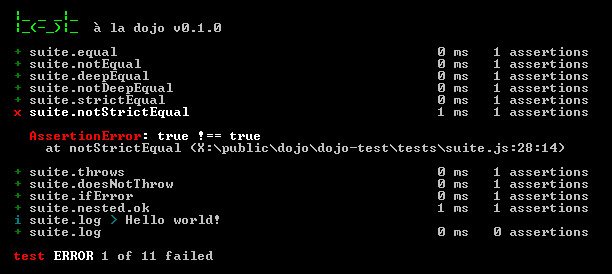
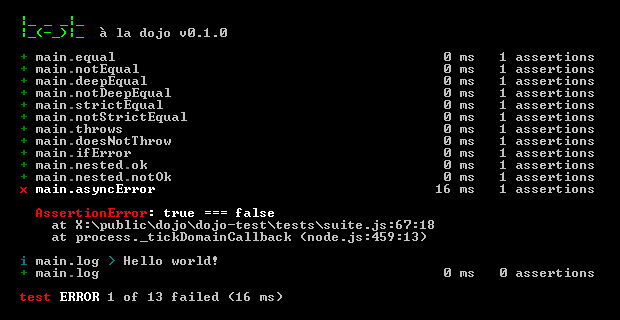
aladojo async domains

diff --git a/dojo-test/test.js b/dojo-test/test.js
@@ -26,6 +26,7 @@ module.exports = (function() {
     // core
     var path = require("path"),
         assert = require("assert"),
+        domain = require("domain"),
 
     // dojo
         pkg = require(path.join(__dirname, "package.json")),
@@ -63,7 +64,7 @@ module.exports = (function() {
         res.push("   "+head);
         for (var i=2; i<lines.length; i++) { // skip head and wrapper
             var line = " "+lines[i];
-            if (/dojo\-test[\\/]test\.js/.test(line)) {
+            if (/dojo\-test[\\/]test\.js|Function\.Module\.runMain \(module\.js:/.test(line)) {
                 break;
             }
             res.push(line.replace(/(Object\.module\.exports\.)|(\[as test\] )/g, ''));
@@ -219,29 +220,43 @@ module.exports = (function() {
             for (var i=3+test['name'].length; i<50; i++) {
                 space += " ";
             }
-
+            
             /**
              * Called when a test is done. May be asynchronous.
              * @private
              */
             function done() {
-                process.stdout.write(" +".green+" "+test['name'].replace(/\./g, ".".grey.bold)+stats(this, Date.now() - time)+'\n');
+                process.stdout.write(" +".green+" "+test['name'].replace(/\./g, ".".grey.bold)+stats(this, Date.now() - inst.start)+'\n');
                 suite.ok.push(test);
+                process.nextTick(next);
+            }
+
+            /**
+             * Fails a test.
+             * @param {Error} e Exception caught
+             */
+            function fail(e) {
+                process.stdout.write(" x".red.bold+" "+test['name'].white.bold+stats(inst, Date.now() - inst.start)+'\n');
+                process.stdout.write('\n'+parseStack(e.stack)+'\n');
+                process.stderr.write("\n");
+                test['error'] = e;
+                suite.failed.push(test);
                 process.nextTick(next);
             }
 
             var inst = new Test(test['name']);
             inst.done = done;
-            time = Date.now();
+            inst.start = Date.now();
             try {
-                test['test'](inst);
+                var d = domain.create();
+                d.on("error", function(e) {
+                    fail(e);
+                });
+                d.run(function() {
+                    test['test'](inst);
+                });
             } catch (e) {
-                process.stdout.write(" x".red.bold+" "+test['name'].white.bold+stats(inst, Date.now() - time)+'\n');
-                process.stdout.write('\n'+parseStack(e.stack)+'\n');
-                process.stderr.write("\n");
-                test['error'] = e;
-                suite.failed.push(test);
-                next();
+                fail(e);
             }
         }
 
@@ -270,6 +285,7 @@ module.exports = (function() {
     Suite.Test = function(name) {
         this.testName = name;
         this.count = 0;
+        this.start = -1;
     };
 
     // Actually wraps assert

diff --git a/dojo-bcrypt/src/bcrypt.js b/dojo-bcrypt/src/bcrypt.js
@@ -388,6 +388,7 @@ module.exports = (function() {
     }
 
     /**
+     * Expensive key schedule Blowfish.
      * @param {Array.<number>} data
      * @param {Array.<number>} key
      * @param {Array.<number>} P
@@ -766,10 +767,10 @@ module.exports = (function() {
     };
 
     /**
-     * Gets the salt from a hash.
+     * Gets the salt portion from a hash.
      * @param {string} hash Hash to extract the salt from
-     * @returns {string}
-     * @throws {Error} If hash is not a string or otherwise invalid
+     * @returns {string} Extracted salt part portion
+     * @throws {Error} If `hash` is not a string or otherwise invalid
      * @expose
      */
     bcrypt.getSalt = function(hash) {

diff --git a/dojo-test/tests/suite.js b/dojo-test/tests/suite.js
@@ -62,6 +62,19 @@ module.exports = {
         }
     },
     
+    "async": function(test) {
+        process.nextTick(function() {
+            test.done();
+        });
+    },
+
+    /* "asyncError": function(test) {
+        process.nextTick(function() {
+            test.strictEqual(true, false);
+            test.done();
+        });
+    }, */
+    
     "log": function(test) {
         test.log("Hello world!");
         test.done();
